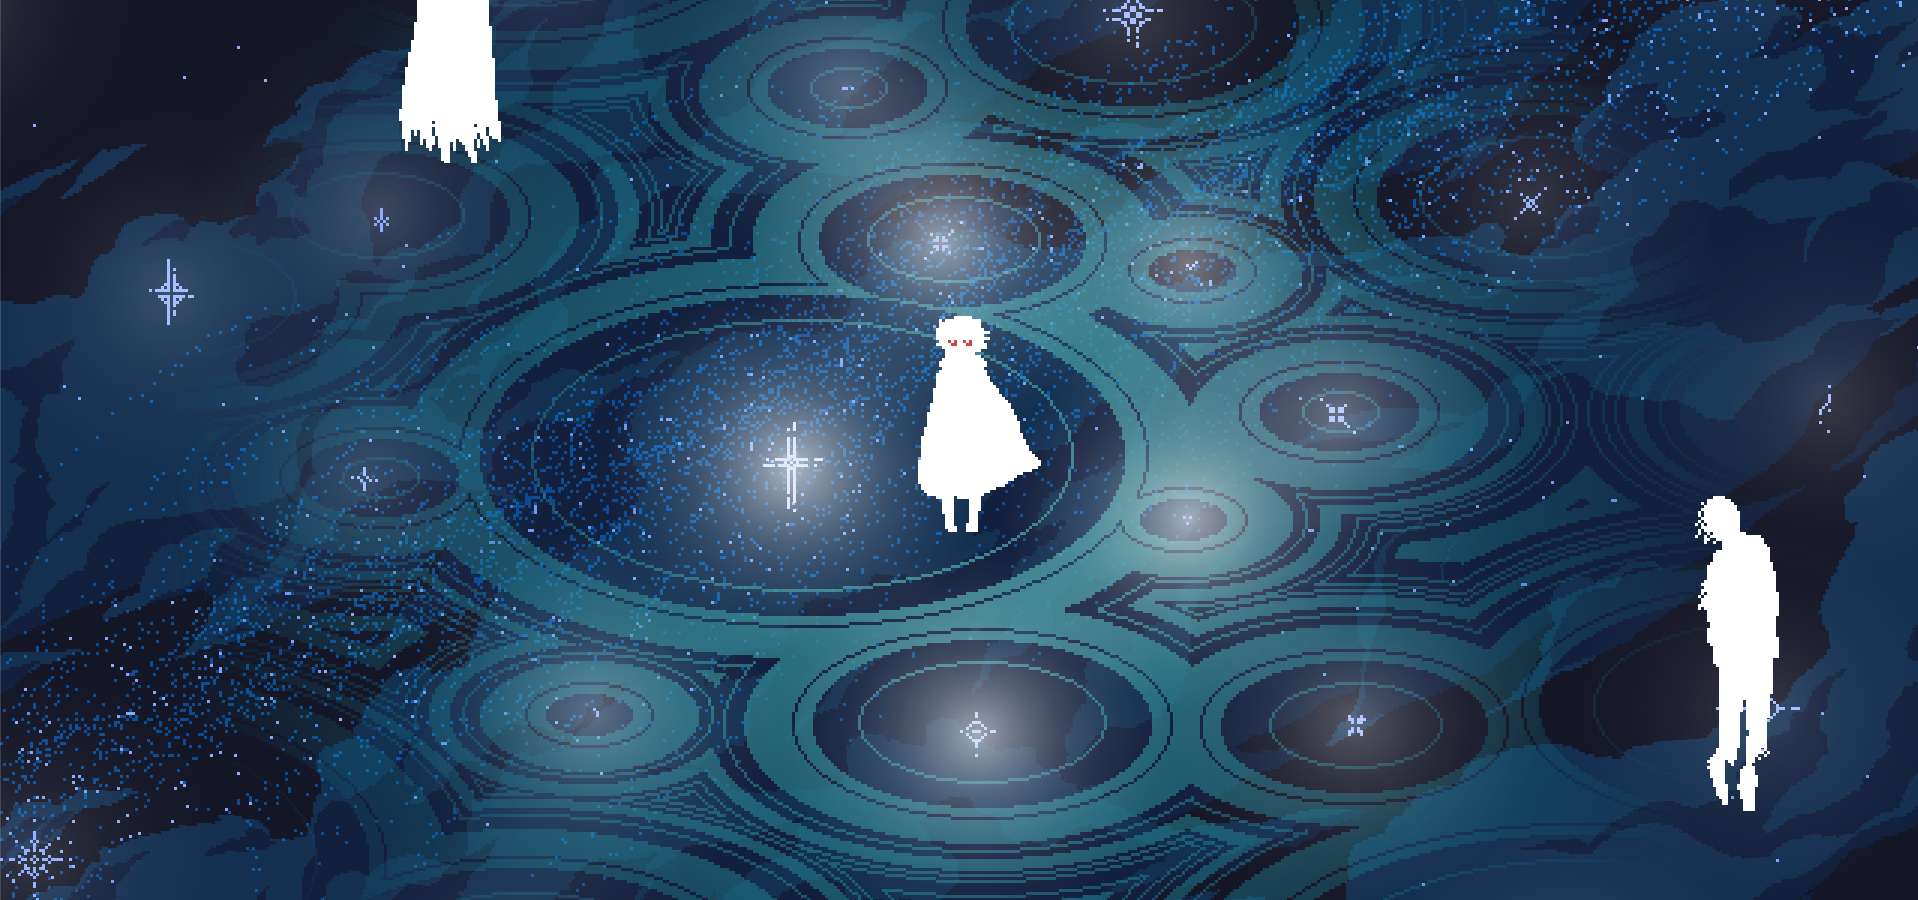
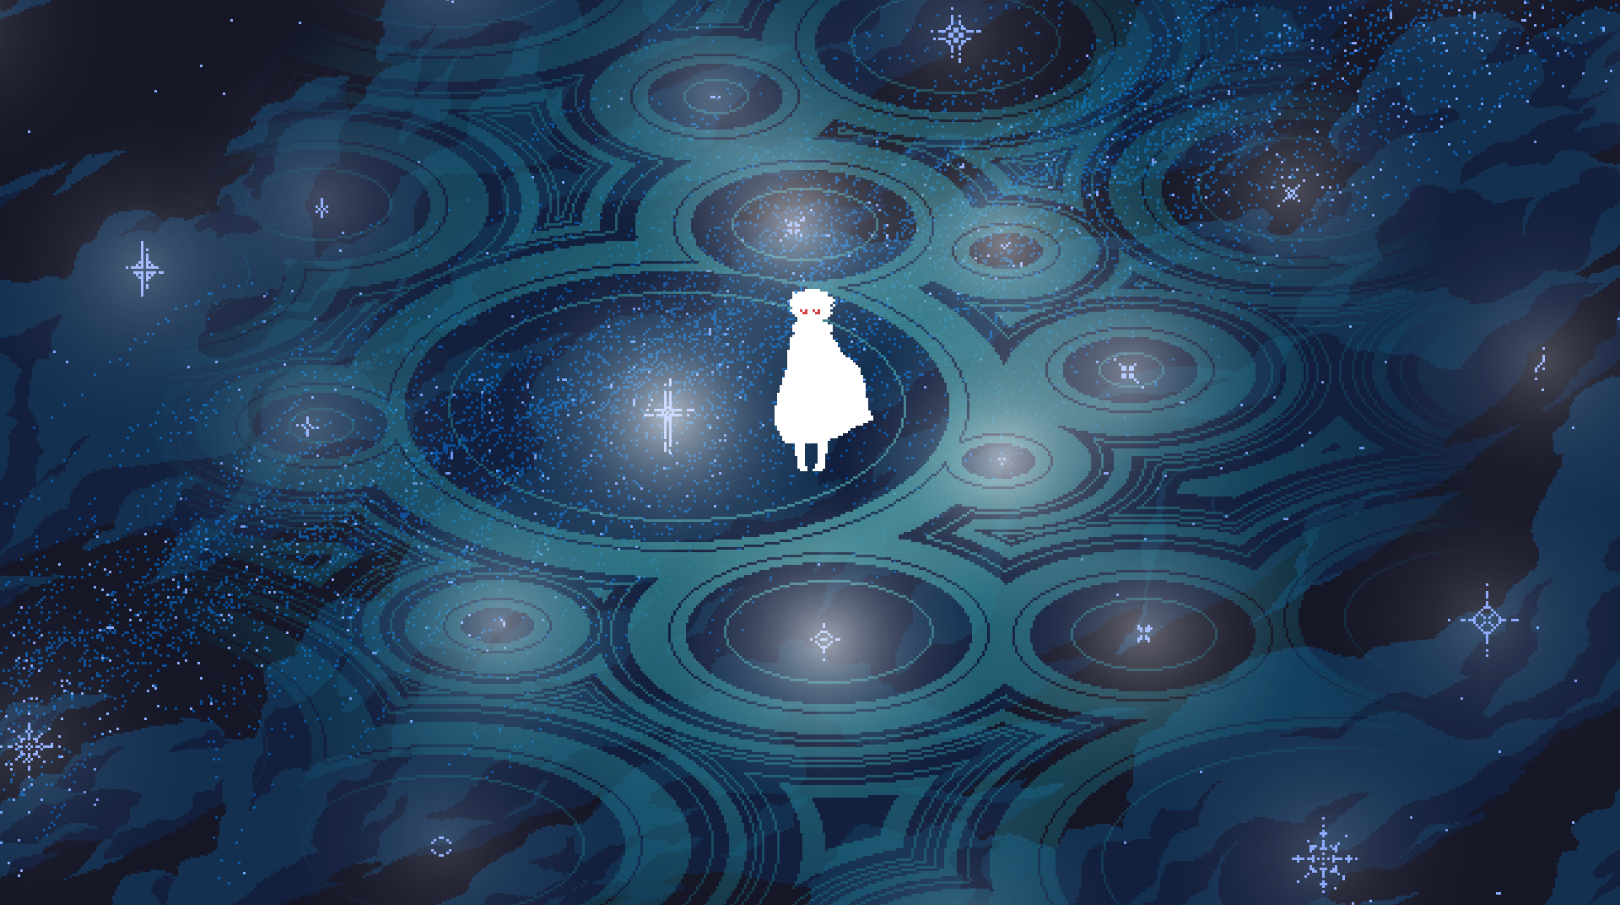
concepts on wintercast

diff --git a/portfolio/wintercast.html b/portfolio/wintercast.html
@@ -72,8 +72,15 @@ layout: default
 		</p>
 
 	</div>
-	<img alt="image" src="/images/portfolio/wintercast-characters.png">
+	<img alt="wintercast characters" src="/images/portfolio/wintercast-characters.png">
 	
+
+	<h5>Concept art</h5>
+
+	<img alt="wintercast plain" src="/images/portfolio/wintercast-plain.png">
+	<img alt="wintercast trail" src="/images/portfolio/wintercast-trail.png">
+	<img alt="wintercast church" src="/images/portfolio/wintercast-demo.png">
+	<img alt="wintercast castle" src="/images/portfolio/wintercast-castle.png">
 
 
 	<div class="backtotop"><a href="#top"><p>▲ Back to top</p></a></div>
